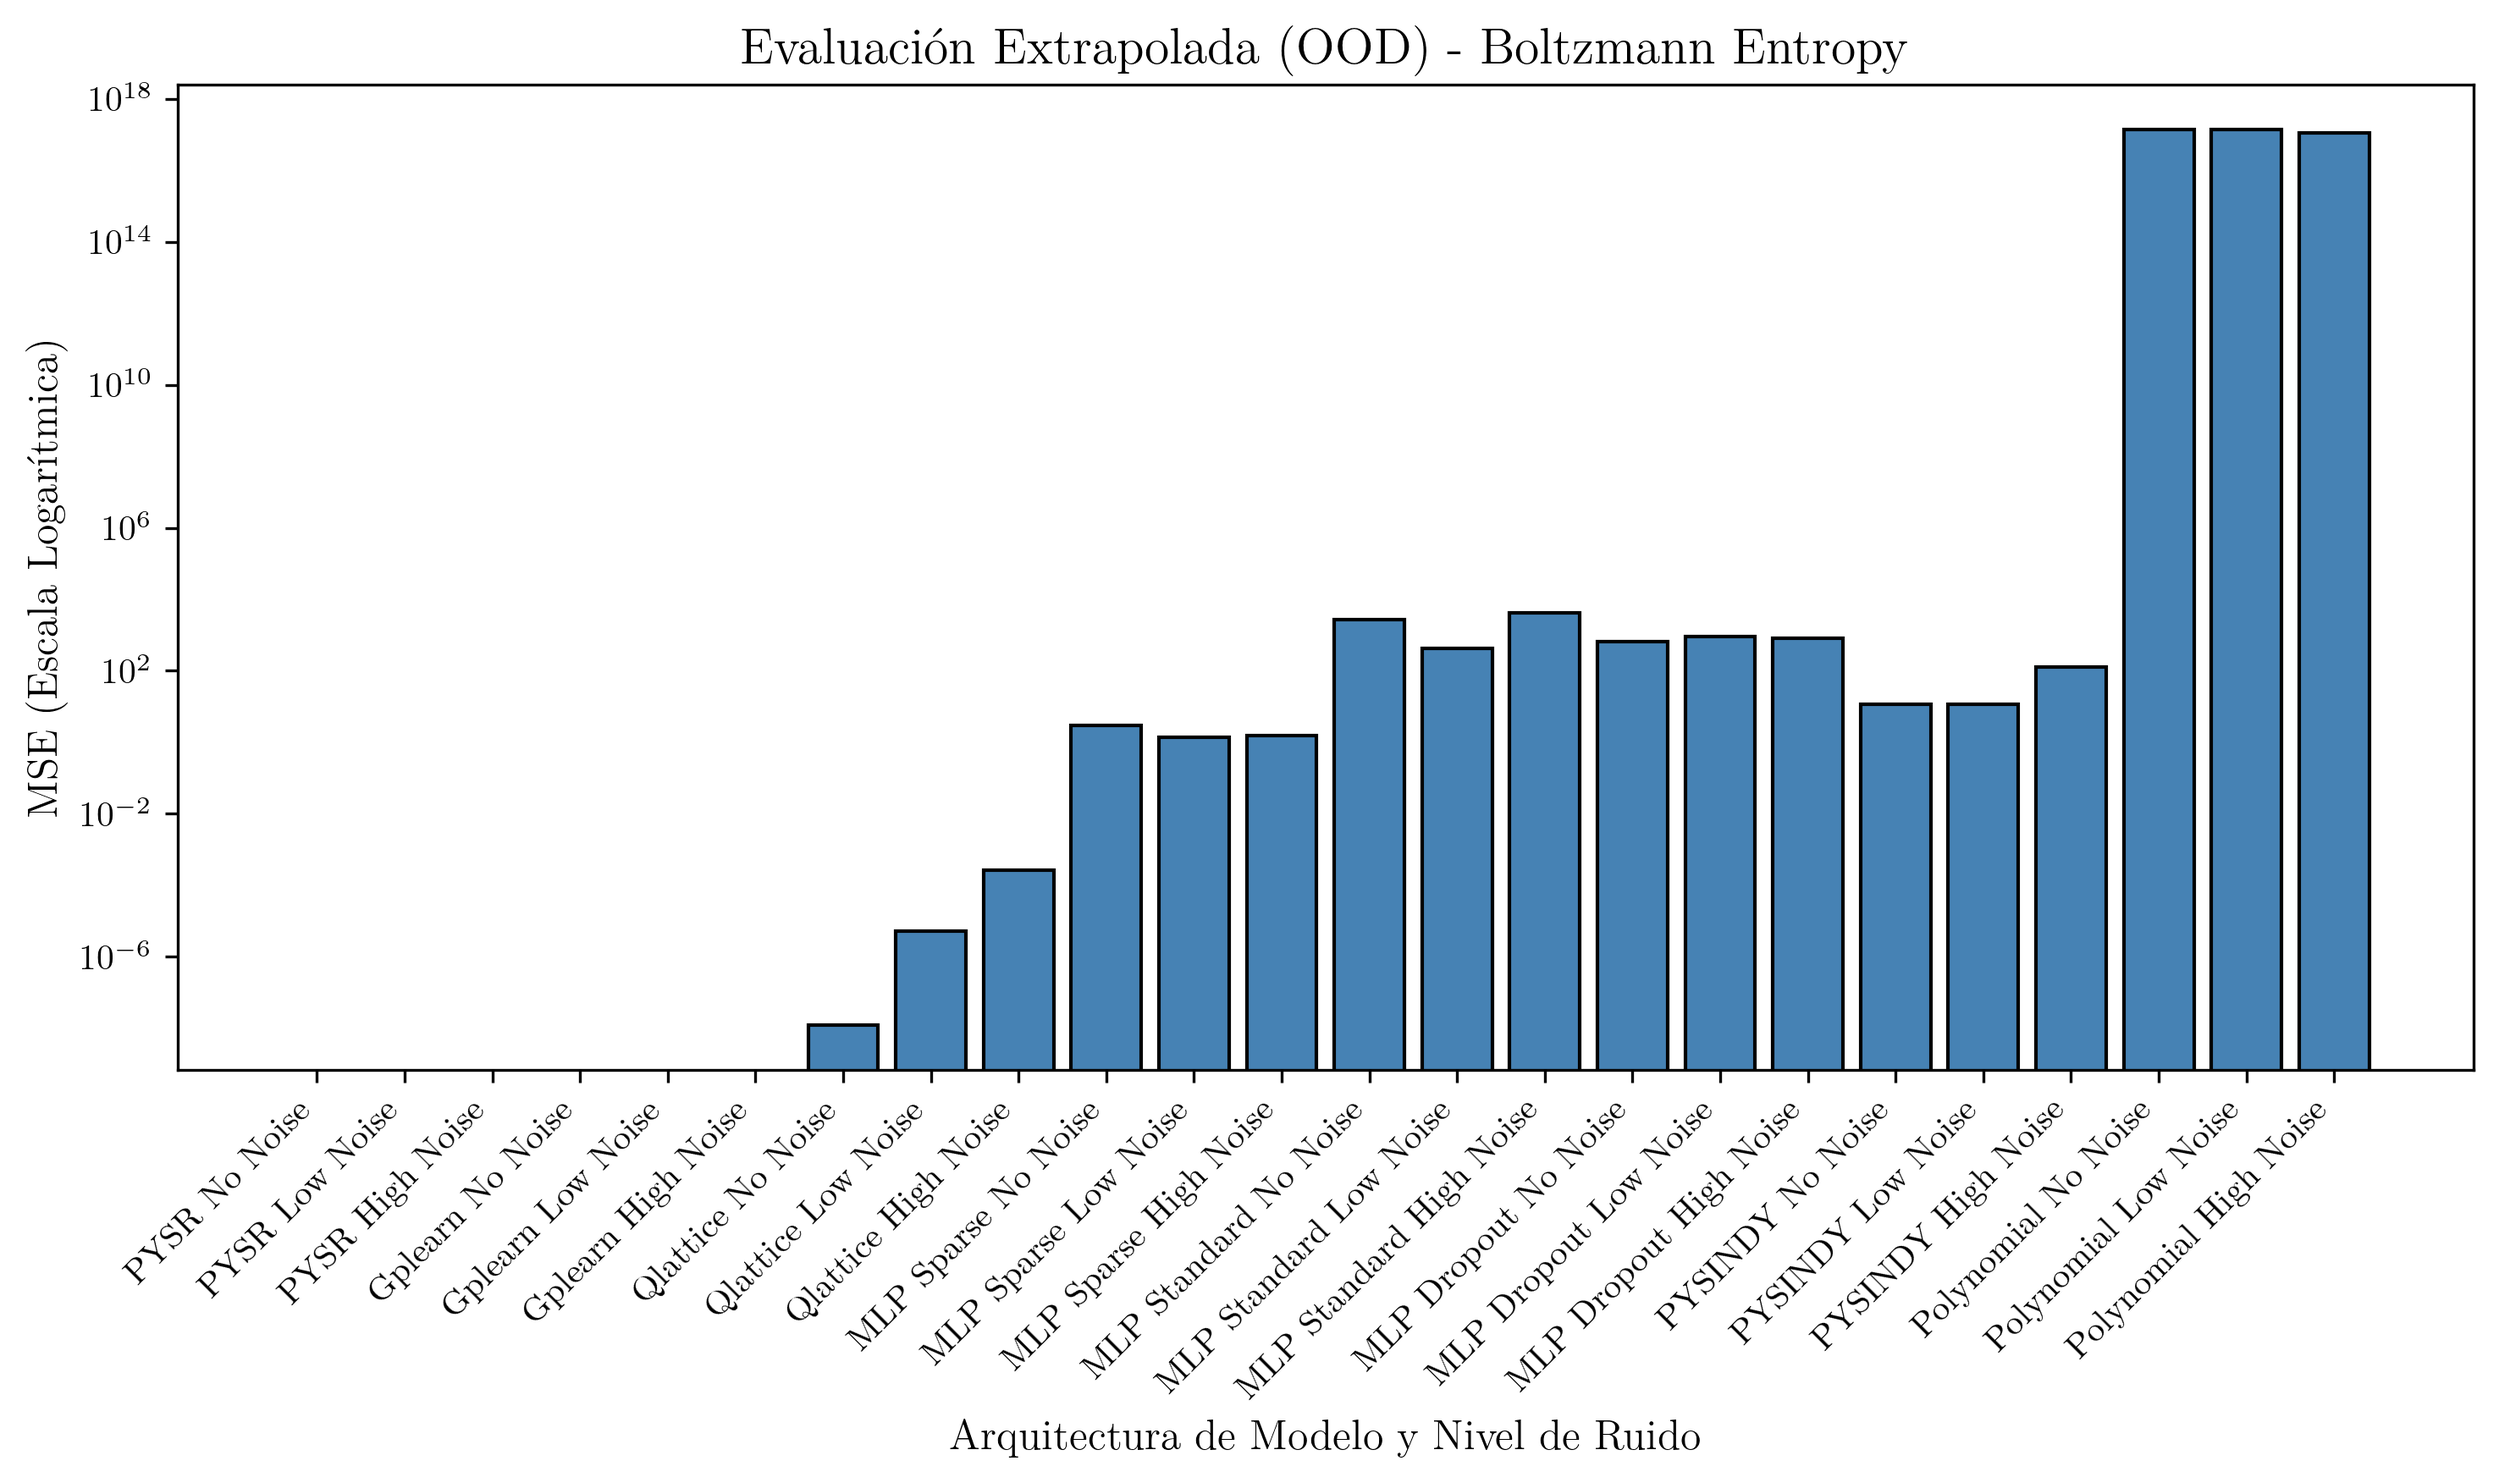
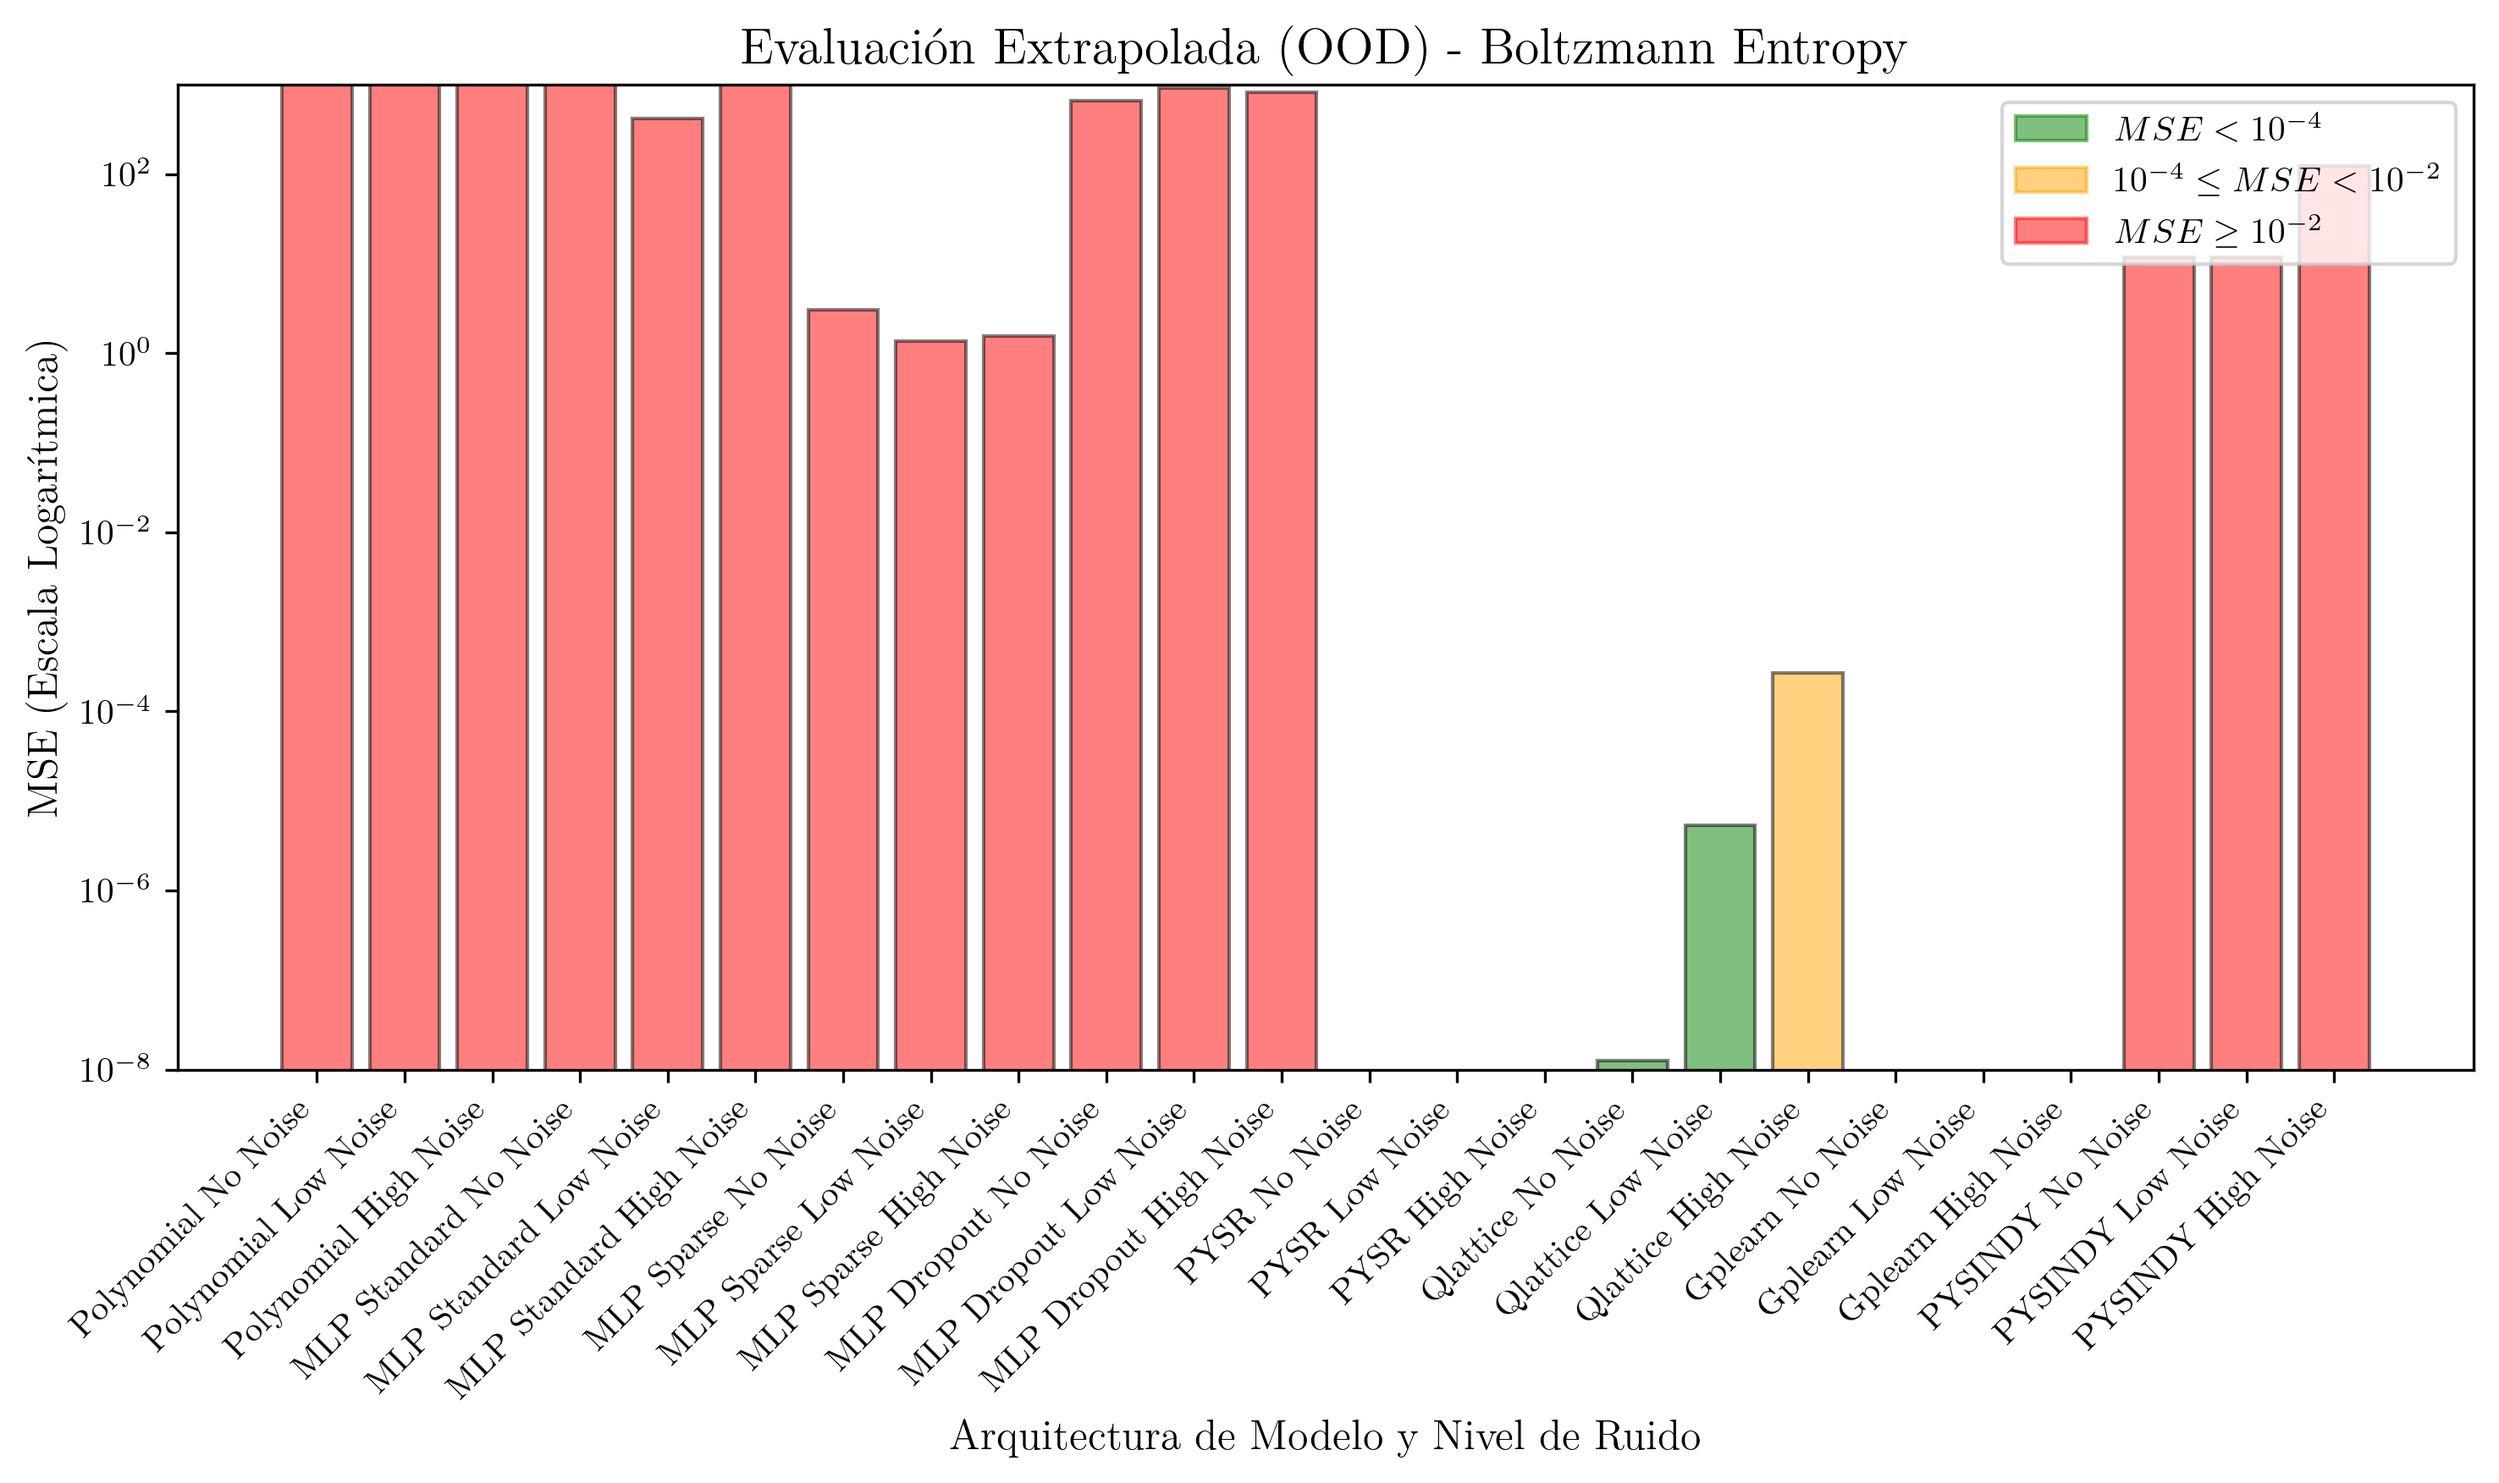
color iin plots

diff --git a/src/evaluate_model_ood.py b/src/evaluate_model_ood.py
@@ -1,5 +1,6 @@
 import numpy as np
 import matplotlib.pyplot as plt
+import matplotlib.patches as mpatches
 import os
 import sys
 import json
@@ -220,6 +221,7 @@ def load_and_predict(weights_path, X_ood, law):
 # 3. EVALUACIÓN DE OOD
 # ==========================================
 if __name__ == "__main__":
+
     laws = [
         "coulomb", "oscillator", "kepler", "ideal_gas",
         "projectile_range", "time_dilation", "radioactive_decay",
@@ -272,14 +274,14 @@ if __name__ == "__main__":
     
     # Diccionarios de jerarquía para el eje X
     MODEL_ORDER = {
-        "PySR": 0,
-        "GPLearn": 1,
-        "QLattice": 2,
-        "MLP_Sparse": 3,
-        "MLP_Standard": 4,
-        "MLP_Dropout": 5,
-        "PySINDy": 6,
-        "Polynomial": 7
+        "Polynomial": 0,
+        "MLP_Standard": 1,
+        "MLP_Sparse": 2,
+        "MLP_Dropout": 3,
+        "PySR": 4,
+        "QLattice": 5,
+        "GPLearn": 6,
+        "PySINDy": 7
     }
     
     NOISE_ORDER = {
@@ -333,9 +335,14 @@ if __name__ == "__main__":
                     formatted_models[i] = formatted_models[i].replace(acronym, acronym.upper())
 
         fig, ax = plt.subplots(figsize=(10, 6))
-        ax.bar(formatted_models, mses, color='steelblue', edgecolor='black')
-        
+        colors = [
+            'green' if m < 1e-4 else 'orange' if m < 1e-2 else 'red' 
+            for m in mses
+        ]
+        ax.bar(formatted_models, mses, color=colors, edgecolor='black', alpha=0.5)            
+
         ax.set_yscale('log')
+        ax.set_ylim(1e-8, 1e3)  
         ax.set_ylabel('MSE (Escala Logarítmica)')
         ax.set_xlabel('Arquitectura de Modelo y Nivel de Ruido')
         ax.set_title(f'Evaluación Extrapolada (OOD) - {formatted_law}')
@@ -343,6 +350,13 @@ if __name__ == "__main__":
         # Formateo del eje categórico
         ax.set_xticks(range(len(formatted_models)))
         ax.set_xticklabels(formatted_models, rotation=45, ha='right')
+
+        green_patch = mpatches.Patch(color='green', alpha=0.5, label=r'$MSE < 10^{-4}$')
+        orange_patch = mpatches.Patch(color='orange', alpha=0.5, label=r'$10^{-4} \leq MSE < 10^{-2}$')
+        red_patch = mpatches.Patch(color='red', alpha=0.5, label=r'$MSE \geq 10^{-2}$')
+
+        # 4. Añadir la leyenda al eje
+        ax.legend(handles=[green_patch, orange_patch, red_patch], loc='upper right')
         
         fig.tight_layout()
         plot_path = os.path.join(RESULTS_OOD_DIR, f"{law}_mse_ood.png")
